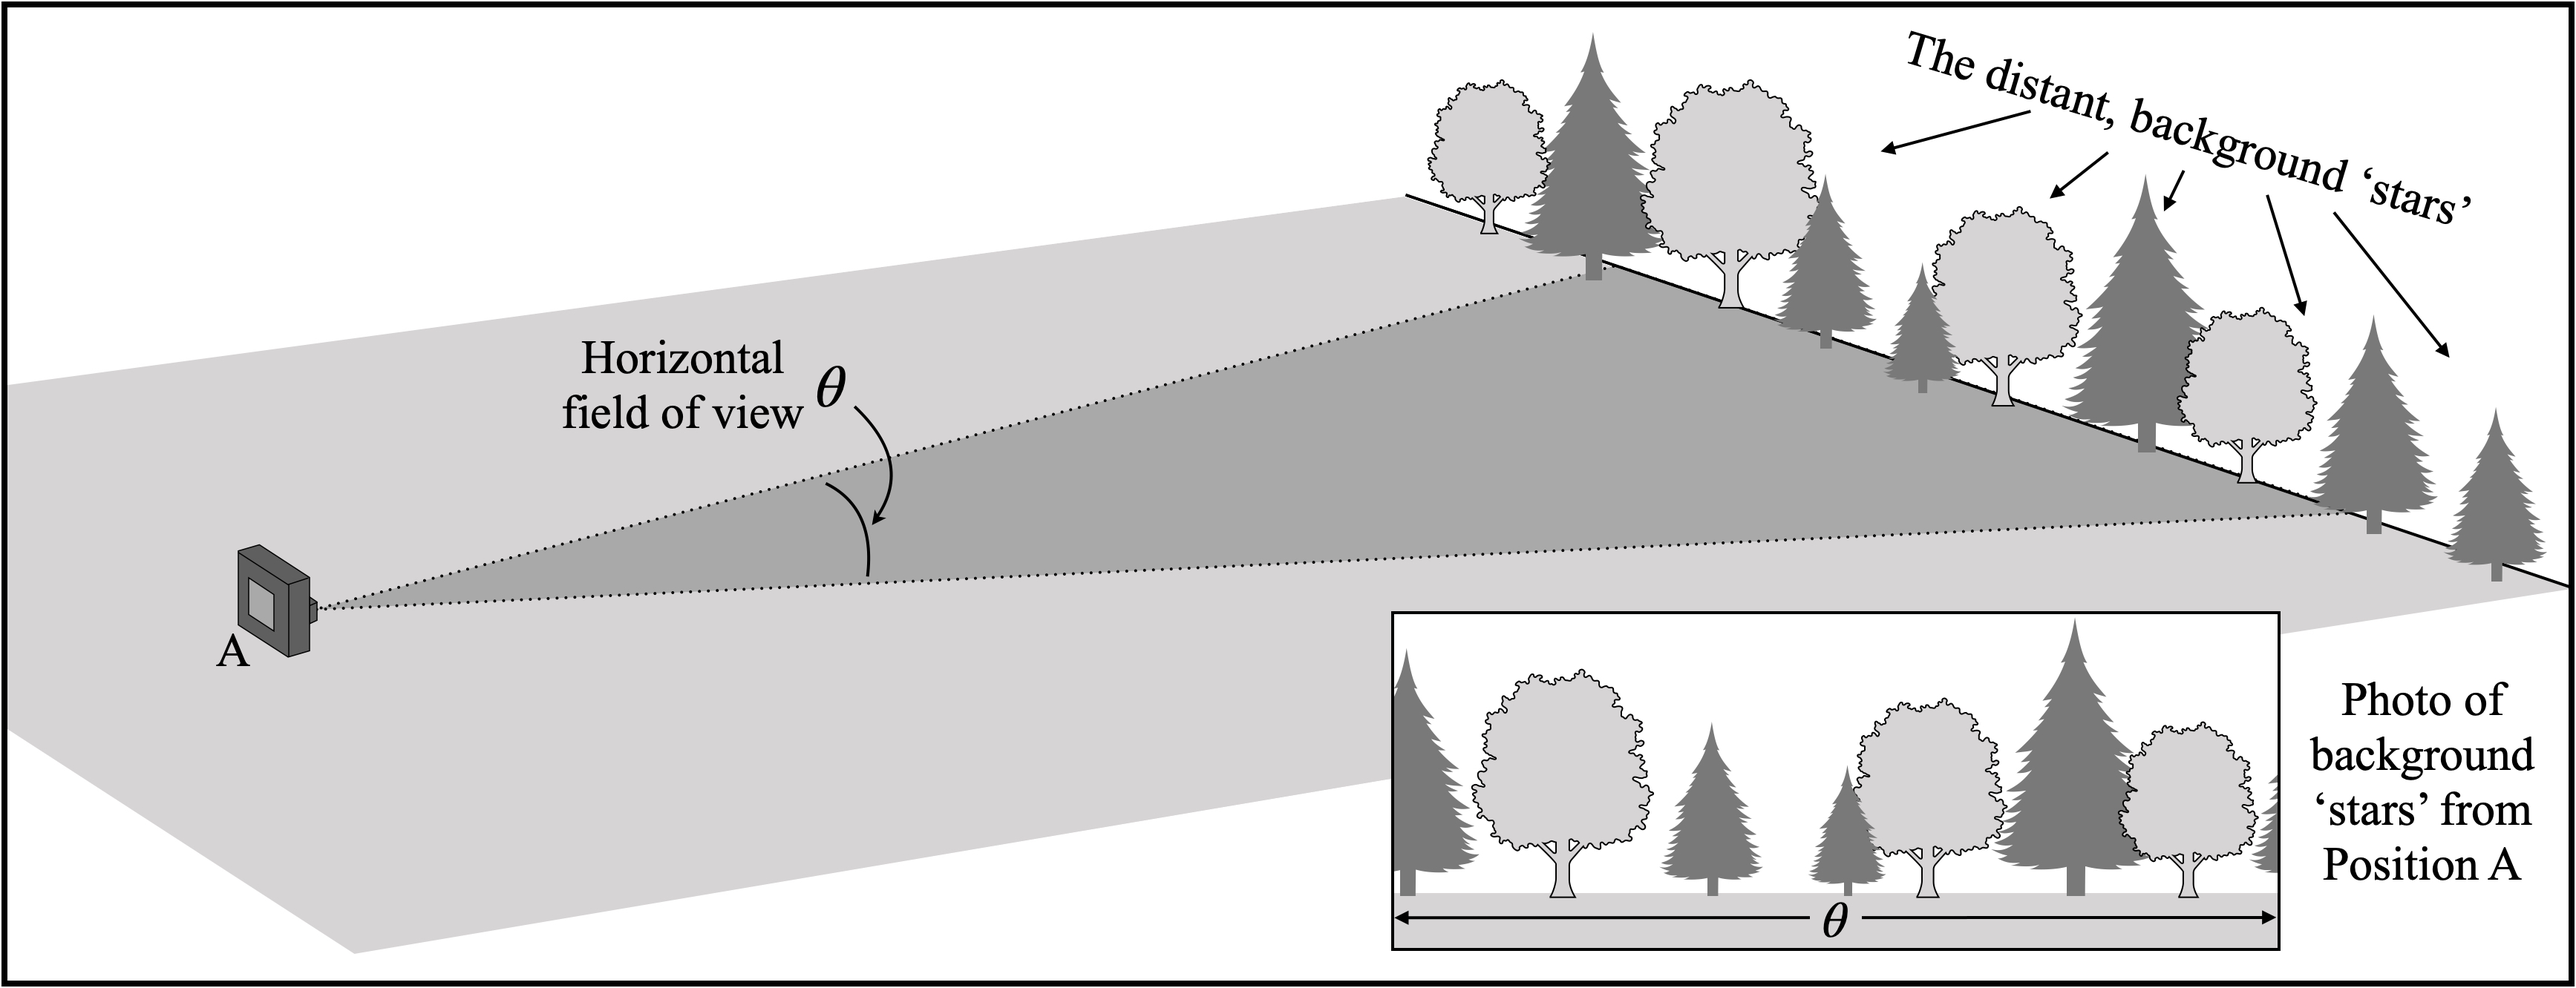
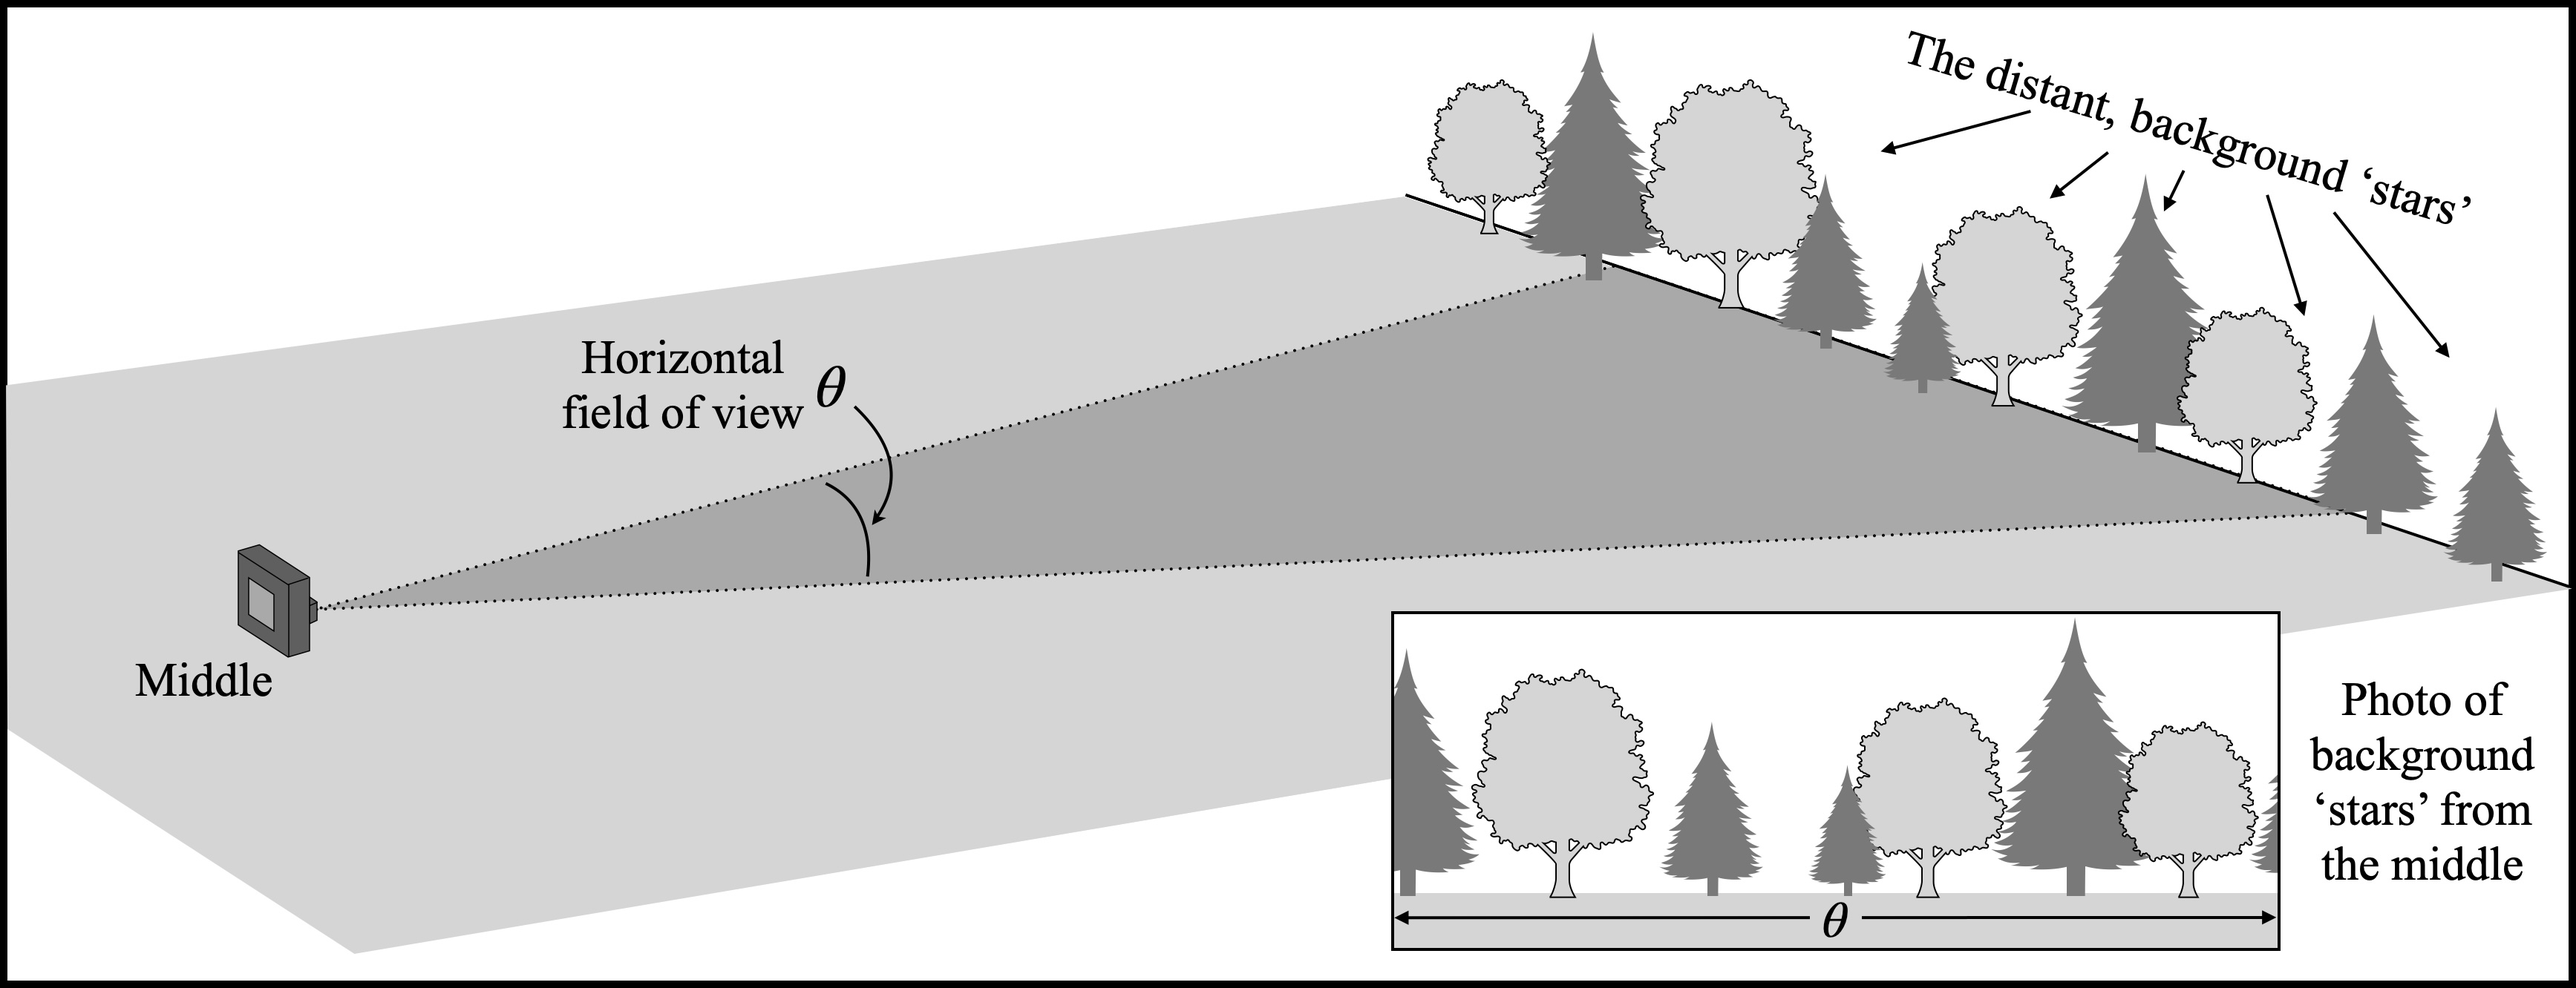
Enhance layout and readability across multiple HTML files; update image references and add new images for clarity

Changed region(s): [[0.9026, 0.0, 1.0, 1.0], [0.0311, 0.6464, 0.1245, 0.708], [0.0, 0.985, 0.0311, 1.0]]

diff --git a/03_observations.html b/03_observations.html
@@ -6,6 +6,11 @@
     color: #222;
     margin: 0;
     padding: 0 0 32px 0;
+    /* Add a small margin to the left and right for better readability */
+    box-sizing: border-box;
+    max-width: 820px;
+    margin-left: auto;
+    margin-right: auto;
   }
   h1, h2 {
     font-family: 'Segoe UI', 'Roboto', 'Helvetica Neue', Arial, 'Liberation Sans', sans-serif;
@@ -104,100 +109,112 @@ the cone. Your teacher will use a tape measure to find the actual
 distance <em>d</em> from Position A to the
 cone. Once you’ve made your parallax measurements, you can compare your
 inferred distance to what was directly measured.</p>
-<h2 class="unnumbered" id="the-view-from-position-a">The view from
-Position A</h2>
-<p>Standing at the same spot as the last photo (Position A), take a
-photo of the cone with the trees in the background.</p>
+<h2 class="unnumbered" id="the-view-from-position-middle">The view from
+the middle</h2>
+<p>Standing at the same spot as the last photo (the Middle), take a
+photo of the cone with the trees in the background. <strong>Record the value of the tape measure at this position.</strong></p>
 <div class="center">
-<p><img alt="Camera at Position A photographing a orange cone in a field with distant trees as background stars; inset shows the camera's view with cone and trees, and text reads: Photo of nearby star from Position A. The scene is calm and instructional, set in an open outdoor environment." src="field_A.jpg" style="width: 750px; max-width: 100%; height: auto;"/></p>
+<p><img alt="Camera at Position Middle photographing a orange cone in a field with distant trees as background stars; inset shows the camera's view with cone and trees, and text reads: Photo of nearby star from Position Middle. The scene is calm and instructional, set in an open outdoor environment." src="field_Middle.jpg" style="width: 750px; max-width: 100%; height: auto;"/></p>
 </div>
 <div style="display: flex; align-items: center; gap: 16px; margin-bottom: 18px;">
-  <label for="posA_feet" style="font-weight: 500;">Enter the value on the tape measure at Position A:</label>
+  <label for="posA_feet" style="font-weight: 500;">Enter the value on the tape measure at the Middle:</label>
   <input type="number" id="posA_feet" name="posA_feet" min="0" style="width: 60px; appearance: textfield; -moz-appearance: textfield;" placeholder="feet" />
   <input type="number" id="posA_inches" name="posA_inches" min="0" max="11" style="width: 60px; appearance: textfield; -moz-appearance: textfield;" placeholder="inches" />
 </div>
-<h2 class="unnumbered" id="the-view-from-position-b">The view from
-Position B</h2>
+<h2 class="unnumbered" id="the-view-from-position-right">The view from
+the right</h2>
 <p>Move to your right a distance <span class="math display">r</span>
 (no more than 5 meters). <em>Notice how the trees behind the cone appear
-to have changed.</em> Make note of your location and take another photo.
-Call this location Position B.</p>
+to have changed.</em> Take another photo. <strong>Record the value of the tape measure at this position.</strong> </p>
+
 <div class="center">
-<p><img alt="Camera at Position B photographing an orange cone in a field with distant trees as background stars; inset shows the camera's view with cone and trees, and text reads: Photo of nearby star from Position B. The scene is calm and instructional, set in an open outdoor environment." src="field_B.jpg" style="width: 750px; max-width: 100%; height: auto;"/></p>
+<p><img alt="Camera at Position Right photographing an orange cone in a field with distant trees as background stars; inset shows the camera's view with cone and trees, and text reads: Photo of nearby star from Position Right. The scene is calm and instructional, set in an open outdoor environment." src="field_Right.jpg" style="width: 750px; max-width: 100%; height: auto;"/></p>
 </div>
 <div style="display: flex; align-items: center; gap: 16px; margin-bottom: 18px;">
-  <label for="posB_feet" style="font-weight: 500;">Enter the value on the tape measure at Position B:</label>
+  <label for="posB_feet" style="font-weight: 500;">Enter the value on the tape measure at the Right:</label>
   <input type="number" id="posB_feet" name="posB_feet" min="0" style="width: 60px; appearance: textfield; -moz-appearance: textfield;" placeholder="feet" />
   <input type="number" id="posB_inches" name="posB_inches" min="0" max="11" style="width: 60px; appearance: textfield; -moz-appearance: textfield;" placeholder="inches" />
 </div>
+
 <p>The distance moved from side-to-side is called the <strong>baseline</strong>.
-Record the baseline distance (in feet) <span class="math display">b_R</span> between Positions A and B here: <span class="math display">b_R = B - A = \hspace{1.25cm}</span></p>
-<h2 class="unnumbered" id="the-view-from-position-c">The view from
-Position C</h2>
-<p>Finally, move to the left of Position A to a new location. Call this
-Position C. Take a third photo of the cone. Again, the distant trees
-behind the cone should appear to have moved.</p>
+Record the baseline distance (in feet) <span class="math display">b_R</span> between Positions Middle and Right here: <span class="math display">b_R = Right - Middle = \hspace{1.25cm}</span></p>
+<h2 class="unnumbered" id="the-view-from-position-left">The view from
+the Left</h2>
+<p>Finally, move to the left of the middle to a new location. Take a third photo of the cone. Again, the distant trees
+behind the cone should appear to have moved. <strong>Record the value of the tape measure at this position.</strong> </p>
 <div class="center">
-<p><img alt="Camera at Position C photographing a orange cone in a field with distant trees as background stars; inset shows the camera's view with cone and trees, and text reads: Photo of nearby star from Position C. The scene is calm and instructional, set in an open outdoor environment." src="field_C.jpg" style="width: 750px; max-width: 100%; height: auto;"/></p>
+<p><img alt="Camera at Position Left photographing a orange cone in a field with distant trees as background stars; inset shows the camera's view with cone and trees, and text reads: Photo of nearby star from Position Left. The scene is calm and instructional, set in an open outdoor environment." src="field_Left.jpg" style="width: 750px; max-width: 100%; height: auto;"/></p>
 </div>
 <div style="display: flex; align-items: center; gap: 16px; margin-bottom: 18px;">
-  <label for="posC_feet" style="font-weight: 500;">Enter the value on the tape measure at Position C:</label>
+  <label for="posC_feet" style="font-weight: 500;">Enter the value on the tape measure at the Left:</label>
   <input type="number" id="posC_feet" name="posC_feet" min="0" style="width: 60px; appearance: textfield; -moz-appearance: textfield;" placeholder="feet" />
   <input type="number" id="posC_inches" name="posC_inches" min="0" max="11" style="width: 60px; appearance: textfield; -moz-appearance: textfield;" placeholder="inches" />
 </div>
-<p>Record the baseline distance (in feet) <span class="math display">b_L</span> between Positions A and C here: <span class="math display">b_L = A - C = \hspace{1.25cm}</span></p>
 
 <hr>
-<h2>Upload your photo</h2>
-<p>Please upload the first photo you took (the background one with no cone):</p>
-<input type="file" accept="image/*" id="student-photo-upload" />
-<div id="student-photo-preview" style="margin-top: 12px;"></div>
-<div id="heic-download" style="margin-top: 12px;"></div>
+
+<h2 class="unnumbered" id="computing-the-baseline">Computing the baselines</h2>
+<p>The distance moved from side-to-side is called the <strong>baseline</strong>. Since you took photos from the left <em>and</em> right of position Middle, you have two baselines.
+<p>We define the right and left baselines as follows:</p>
+<p style="font-size:1.1em; margin-left:1em;">
+<span class="math display">b<sub>R</sub> = Right - Middle,</span>
+&nbsp;&nbsp;&nbsp;
+<span class="math display">b<sub>L</sub> = Middle - Left.</span>
+</p>
+<p>Measured values (from above):</p>
+<ul style="font-size:1.08em; margin-left:1em;">
+  <li>Middle = <span id="A_val"></span></li>
+  <li>Right = <span id="B_val"></span></li>
+  <li>Left = <span id="C_val"></span></li>
+</ul>
 <script>
-function isHeic(file) {
-  return file && file.type === 'image/heic' || (file && file.name && file.name.toLowerCase().endsWith('.heic'));
+function updateABC() {
+  const A = getVal('posA_feet', 'posA_inches');
+  const B = getVal('posB_feet', 'posB_inches');
+  const C = getVal('posC_feet', 'posC_inches');
+  document.getElementById('A_val').textContent = (A / 30.48).toFixed(3) + ' ft';
+  document.getElementById('B_val').textContent = (B / 30.48).toFixed(3) + ' ft';
+  document.getElementById('C_val').textContent = (C / 30.48).toFixed(3) + ' ft';
 }
-document.getElementById('student-photo-upload').addEventListener('change', function(event) {
-  const file = event.target.files[0];
-  const previewDiv = document.getElementById('student-photo-preview');
-  const heicDiv = document.getElementById('heic-download');
-  previewDiv.innerHTML = '';
-  heicDiv.innerHTML = '';
-  if (file) {
-    if (isHeic(file)) {
-      previewDiv.innerHTML = '<span style="color: red; font-weight: bold;">HEIC images are not widely supported. Click below to convert and download as JPG.</span>';
-      // Try to convert HEIC to JPEG using browser APIs if available
-      if (window.OffscreenCanvas && window.createImageBitmap) {
-        const reader = new FileReader();
-        reader.onload = function(e) {
-          fetch(e.target.result)
-            .then(res => res.blob())
-            .then(blob => createImageBitmap(blob))
-            .then(bitmap => {
-              const canvas = new OffscreenCanvas(bitmap.width, bitmap.height);
-              const ctx = canvas.getContext('2d');
-              ctx.drawImage(bitmap, 0, 0);
-              canvas.convertToBlob({ type: 'image/jpeg', quality: 0.92 }).then(jpgBlob => {
-                const url = URL.createObjectURL(jpgBlob);
-                heicDiv.innerHTML = `<a href="${url}" download="converted.jpg" style="color: #0057b8; font-weight: bold;">Download JPG version</a>`;
-              });
-            })
-            .catch(() => {
-              heicDiv.innerHTML = '<span style="color: red;">Automatic conversion failed. Please use an online converter such as <a href="https://heic2jpg.com/" target="_blank" style="color:#0057b8; font-weight:bold;">heic2jpg.com</a>.</span>';
-            });
-        };
-        reader.readAsDataURL(file);
-      } else {
-        heicDiv.innerHTML = '<span style="color: red;">Automatic conversion not supported in this browser. Please use an online converter such as <a href="https://heic2jpg.com/" target="_blank" style="color:#0057b8; font-weight:bold;">heic2jpg.com</a>.</span>';
-      }
-    } else {
-      const reader = new FileReader();
-      reader.onload = function(e) {
-        previewDiv.innerHTML = `<img src="${e.target.result}" alt="Student uploaded field photo" style="max-width: 400px; max-height: 300px; border: 1px solid #ccc; margin-top: 8px;" />`;
-      };
-      reader.readAsDataURL(file);
-    }
-  }
+['posA_feet','posA_inches','posB_feet','posB_inches','posC_feet','posC_inches'].forEach(id => {
+  document.getElementById(id).addEventListener('input', updateABC);
 });
+updateABC();
+</script>
+<button type="button" class="modern-btn" onclick="computeBaselines()">Compute b<sub>R</sub> and b<sub>L</sub></button>
+<div id="baseline-results" style="font-size:1.1em; color:#1976d2; font-weight:600; margin-top:10px;"></div>
+<p style="color:#b71c1c; font-weight:600; margin-top:18px;">Important: Write down your two baseline values (b<sub>R</sub> and b<sub>L</sub>) before proceeding to the next step. You will need them for later calculations!</p>
+<script>
+function feetInchesToCm(feet, inches) {
+  return feet * 30.48 + inches * 2.54;
+}
+function getVal(idFeet, idInches) {
+  const feet = parseFloat(document.getElementById(idFeet).value) || 0;
+  const inches = parseFloat(document.getElementById(idInches).value) || 0;
+  return feetInchesToCm(feet, inches);
+}
+function computeBaselines() {
+  const A = getVal('posA_feet', 'posA_inches');
+  const B = getVal('posB_feet', 'posB_inches');
+  const C = getVal('posC_feet', 'posC_inches');
+  document.getElementById('A_val').textContent = (A / 30.48).toFixed(3) + ' ft';
+  document.getElementById('B_val').textContent = (B / 30.48).toFixed(3) + ' ft';
+  document.getElementById('C_val').textContent = (C / 30.48).toFixed(3) + ' ft';
+  let result = '';
+  if (!isNaN(A) && !isNaN(B) && !isNaN(C)) {
+    const bR_ft = (B - A) / 30.48;
+    const bL_ft = (A - C) / 30.48;
+    if (bR_ft < 0 || bL_ft < 0) {
+      result = '<span style="color:#b71c1c; font-weight:600;">Error: One or both baseline values are negative. Please double check your position values for Middle, Right, and Left above.</span>';
+    } else if (bR_ft < 2 || bR_ft > 40 || bL_ft < 2 || bL_ft > 40) {
+      result = '<span style="color:#b71c1c; font-weight:600;">Error: One or both baseline values are outside the expected range (2–40 ft). Please check your position values for Middle, Right, and Left above.</span>';
+    } else {
+      result = `b<sub>R</sub> = ${bR_ft.toFixed(3)} ft, &nbsp; b<sub>L</sub> = ${bL_ft.toFixed(3)} ft`;
+    }
+  } else {
+    result = '<span style="color:#b71c1c;">Please enter all tape measure values above.</span>';
+  }
+  document.getElementById('baseline-results').innerHTML = result;
+}
 </script>
 </body></html>

diff --git a/04_parallax_angle.html b/04_parallax_angle.html
@@ -6,6 +6,11 @@
     color: #222;
     margin: 0;
     padding: 0 0 32px 0;
+    /* Add a small margin to the left and right for better readability */
+    box-sizing: border-box;
+    max-width: 820px;
+    margin-left: auto;
+    margin-right: auto;
   }
   h1, h2 {
     font-family: 'Segoe UI', 'Roboto', 'Helvetica Neue', Arial, 'Liberation Sans', sans-serif;
@@ -112,17 +117,58 @@ determine these positions of the cone: <span class="math display">\[\theta_B = \
 <h2 class="unnumbered" id="the-parallax-angle">The parallax angle</h2>
 <p>We define the <strong>parallax angle</strong> as the angle by which
 the cone appears to move when you change locations. You took photos of
-your star from three positions. The first position (A) is the baseline.
-The angle <span class="math inline">\(p_R\)</span> (see the figure
-above) represents the amount by which the cone appeared to move when
-going to the <em><strong>right</strong></em> from A to B. Likewise,
-<span class="math inline">\(p_C\)</span> gives the amount the cone
-shifted when going to the <em><strong>left</strong></em> from A to C.
-Record your parallax angles here: <span class="math display">\[p_R
-=  \theta_A  - \theta_B =
-\qquad \qquad \qquad \qquad
-p_L = \theta_C - \theta_A =\]</span></p>
-<div class="center">
-<p><img alt="image" src="parallaxAngles.png" style="width:80.0%"/></p>
-</div>
+your star from three positions.</p>
+<hr>
+<h2>Upload your photo</h2>
+<p>Please upload the first photo you took (the background one with no cone):</p>
+<input type="file" accept="image/*" id="student-photo-upload" />
+<div id="student-photo-preview" style="margin-top: 12px;"></div>
+<div id="heic-download" style="margin-top: 12px;"></div>
+<script>
+function isHeic(file) {
+  return file && file.type === 'image/heic' || (file && file.name && file.name.toLowerCase().endsWith('.heic'));
+}
+document.getElementById('student-photo-upload').addEventListener('change', function(event) {
+  const file = event.target.files[0];
+  const previewDiv = document.getElementById('student-photo-preview');
+  const heicDiv = document.getElementById('heic-download');
+  previewDiv.innerHTML = '';
+  heicDiv.innerHTML = '';
+  if (file) {
+    if (isHeic(file)) {
+      previewDiv.innerHTML = '<span style="color: red; font-weight: bold;">HEIC images are not widely supported. Click below to convert and download as JPG.</span>';
+      // Try to convert HEIC to JPEG using browser APIs if available
+      if (window.OffscreenCanvas && window.createImageBitmap) {
+        const reader = new FileReader();
+        reader.onload = function(e) {
+          fetch(e.target.result)
+            .then(res => res.blob())
+            .then(blob => createImageBitmap(blob))
+            .then(bitmap => {
+              const canvas = new OffscreenCanvas(bitmap.width, bitmap.height);
+              const ctx = canvas.getContext('2d');
+              ctx.drawImage(bitmap, 0, 0);
+              canvas.convertToBlob({ type: 'image/jpeg', quality: 0.92 }).then(jpgBlob => {
+                const url = URL.createObjectURL(jpgBlob);
+                heicDiv.innerHTML = `<a href="${url}" download="converted.jpg" style="color: #0057b8; font-weight: bold;">Download JPG version</a>`;
+              });
+            })
+            .catch(() => {
+              heicDiv.innerHTML = '<span style="color: red;">Automatic conversion failed. Please use an online converter such as <a href="https://heic2jpg.com/" target="_blank" style="color:#0057b8; font-weight:bold;">heic2jpg.com</a>.</span>';
+            });
+        };
+        reader.readAsDataURL(file);
+      } else {
+        heicDiv.innerHTML = '<span style="color: red;">Automatic conversion not supported in this browser. Please use an online converter such as <a href="https://heic2jpg.com/" target="_blank" style="color:#0057b8; font-weight:bold;">heic2jpg.com</a>.</span>';
+      }
+    } else {
+      const reader = new FileReader();
+      reader.onload = function(e) {
+        previewDiv.innerHTML = `<img src="${e.target.result}" alt="Student uploaded field photo" style="max-width: 400px; max-height: 300px; border: 1px solid #ccc; margin-top: 8px;" />`;
+      };
+      reader.readAsDataURL(file);
+    }
+  }
+});
+</script>
 </body></html>

diff --git a/01_background.html b/01_background.html
@@ -8,6 +8,11 @@
         color: #222;
         margin: 0;
         padding: 0 0 32px 0;
+        /* Add a small margin to the left and right for better readability */
+        box-sizing: border-box;
+        max-width: 820px;
+        margin-left: auto;
+        margin-right: auto;
       }
       h1, h2 {
         font-family: 'Segoe UI', 'Roboto', 'Helvetica Neue', Arial, 'Liberation Sans', sans-serif;

diff --git a/02_calibrating.html b/02_calibrating.html
@@ -6,6 +6,11 @@
     color: #222;
     margin: 0;
     padding: 0 0 32px 0;
+    /* Add a small margin to the left and right for better readability */
+    box-sizing: border-box;
+    max-width: 820px;
+    margin-left: auto;
+    margin-right: auto;
   }
   h1, h2 {
     font-family: 'Segoe UI', 'Roboto', 'Helvetica Neue', Arial, 'Liberation Sans', sans-serif;
